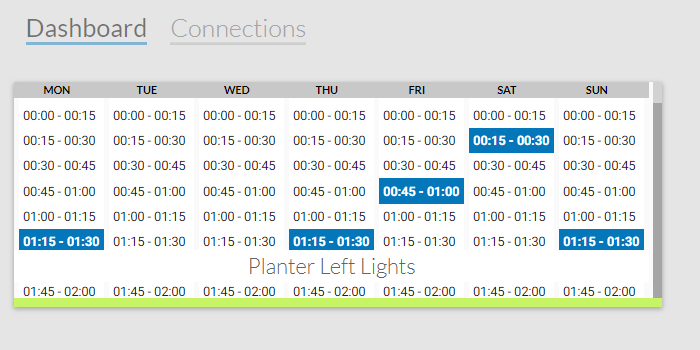
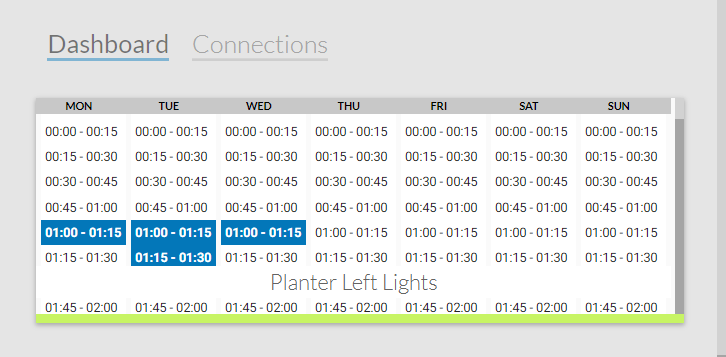
Docs updated

diff --git a/html/assim-weekview.html b/html/assim-weekview.html
@@ -116,12 +116,15 @@
                         notify: true,
                         type: Array,
                         value: () => []
-                    }
+                    },
+                    intervalHourIncrement: Number,
+                    intervalHourDivisions: Number
                 },
                 observers: [
                     'newValues(endPointJson.values.*)'
                 ],
                 ready: function () {
+                    this.setIntervals();
                     this.buildTimeArray('itemsDay');
                 },
                 attached: function () {
@@ -130,12 +133,25 @@
                 newValues: function (changeRecord) {
 
                 },
+                setIntervals: function(){
+                    var intervalMins = this.endPointJson.interval_mins;
+                    var hoursDecimal = intervalMins/60;
+                    this.intervalHourIncrement = hoursDecimal < 1 ? 1 : Math.floor(hoursDecimal);
+                    console.log("hourInc: " + this.intervalHourIncrement);
+                    if (hoursDecimal >= 1){
+                        this.intervalHourDivisions = 1;
+                    }else{
+                        var intervalMod = intervalMins % 60;
+                        var divs5min = intervalMod / 5;
+                        this.intervalHourDivisions = 12 / divs5min;
+                    }
+                    console.log("hourDivs: " + this.intervalHourDivisions);
+                },
                 buildTimeArray: function (timeArrayString) {
                     this[timeArrayString] = [];
-                    var hrDivs = 4;
-                    var mins = 60 / hrDivs;
-                    for (var i = 0; i < 24; i++) {
-                        for (var j = 0; j < hrDivs; j++) {
+                    var mins = 60 / this.intervalHourDivisions;
+                    for (var i = 0; i < 24; i = i + this.intervalHourIncrement) {
+                        for (var j = 0; j < this.intervalHourDivisions; j++) {
                             var startVal = this.pad(i, 2) + ":" + this.pad((j * mins), 2);
                             var endVal = "";
                             var endMins = ((j + 1) * mins);

diff --git a/README.md b/README.md
@@ -16,7 +16,27 @@ CORS friendly webcomponents hosted from WiFi thing webserver.
 
 Show/hide cards from "Device card"
 
+## Cards
+
+### Weekview 15 minute intervals
+
 ![Weekview Card](https://github.com/IOT-123/AssimilateCrouton/raw/master/images/assim-weekview-1.png)
+
+![Weekview Card](https://github.com/IOT-123/AssimilateCrouton/raw/master/images/assim-weekview-1a.png)
+
+### Weekview 1 hour intervals
+
+![Weekview Card](https://github.com/IOT-123/AssimilateCrouton/raw/master/images/assim-weekview-2.png)
+
+![Weekview Card](https://github.com/IOT-123/AssimilateCrouton/raw/master/images/assim-weekview-2a.png)
+
+### Weekview 3 hour intervals
+
+![Weekview Card](https://github.com/IOT-123/AssimilateCrouton/raw/master/images/assim-weekview-3.png)
+
+![Weekview Card](https://github.com/IOT-123/AssimilateCrouton/raw/master/images/assim-weekview-3a.png)
+
+### assim-device
 
 ![Device Card Default](https://github.com/IOT-123/AssimilateCrouton/raw/master/images/assim-device-1.png)
 
